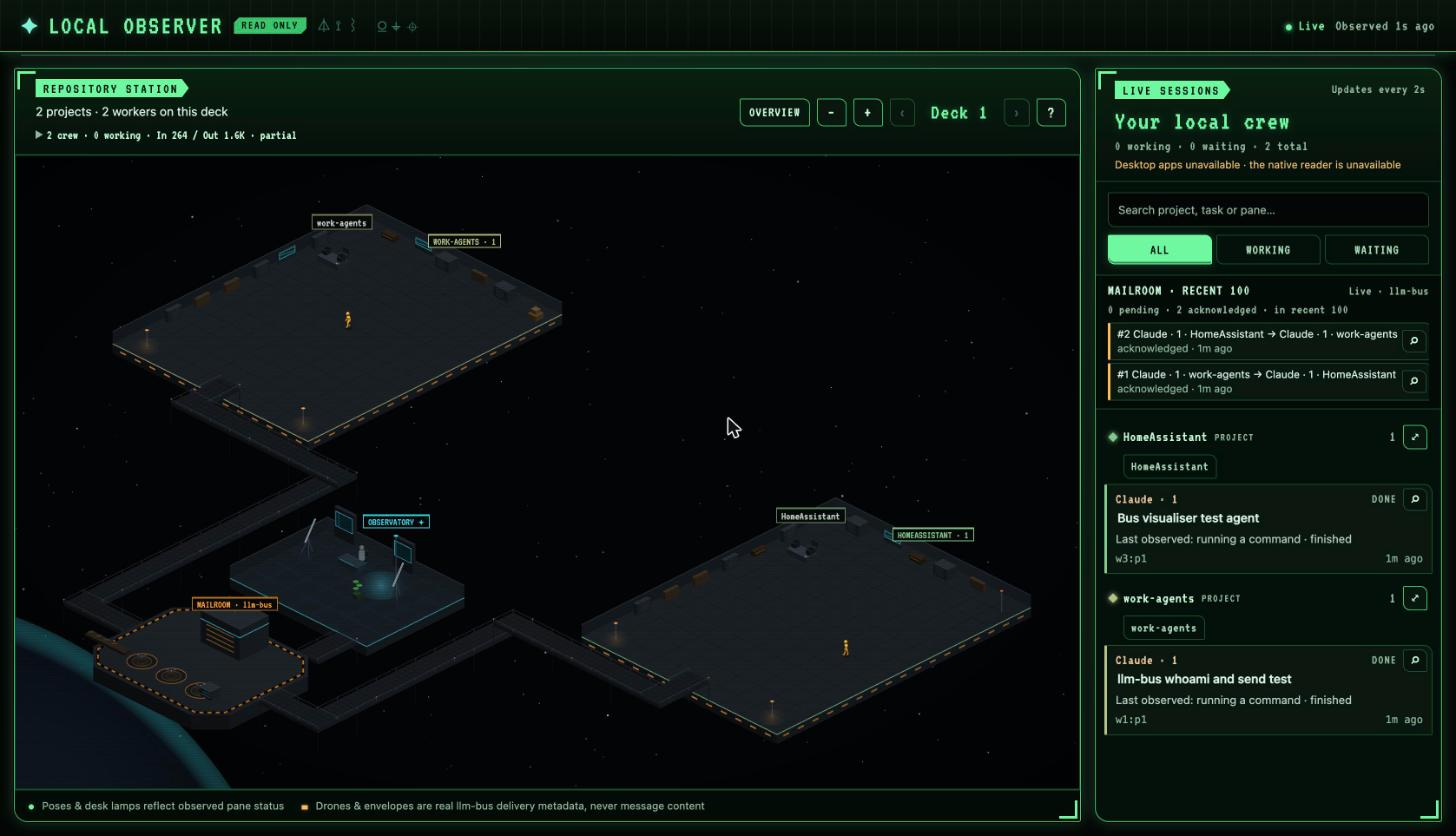
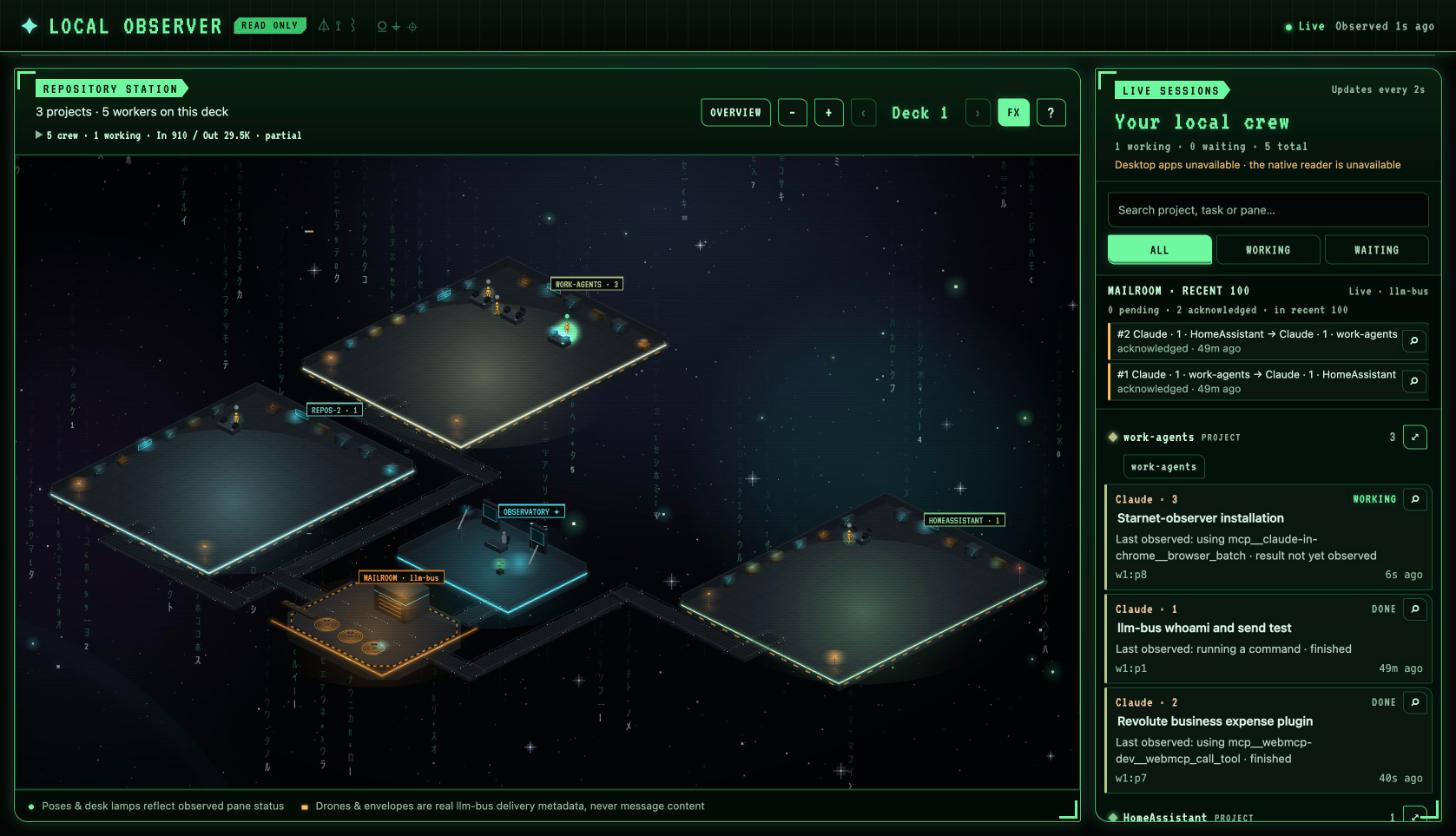
docs: README screenshot shows the FX sky and station glow

diff --git a/README.md b/README.md
@@ -2,7 +2,7 @@
 
 A standalone, read-only browser view of local Codex and Claude Code sessions, drawn as an isometric pixel-art station. Start it from your terminal, then keep working in your normal agent terminals. It shows project/repository groups, session status, available token usage, transcript inspectors, and animated llm-bus message couriers.
 
-![Local Observer showing two Claude Code sessions in Herdr panes, two project decks, and llm-bus messages in the mailroom](docs/observer-screenshot.jpg)
+![Local Observer with FX on: Matrix glyph rain and pixies over the station, neon rim bloom and lit furniture on three project decks, a glowing working agent, and llm-bus messages in the mailroom](docs/observer-screenshot.jpg)
 
 You do **not** need to install or run StarNet. The necessary observer code, shared helpers, and three crew sprite sets are included here. This is a local companion app, not a Herdr plugin installed with `herdr plugin install`.
 
